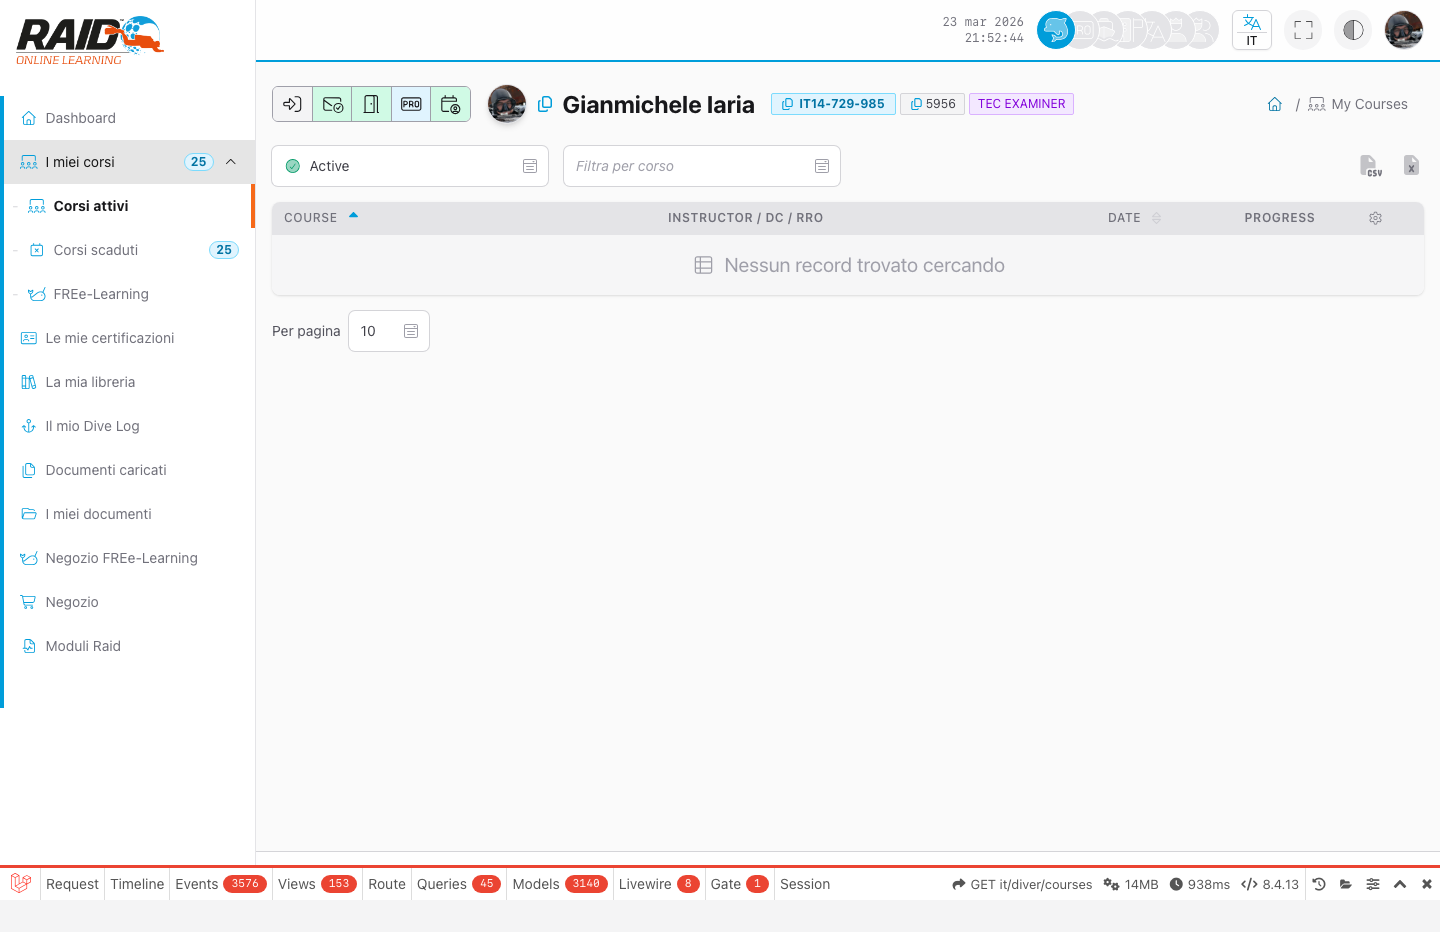
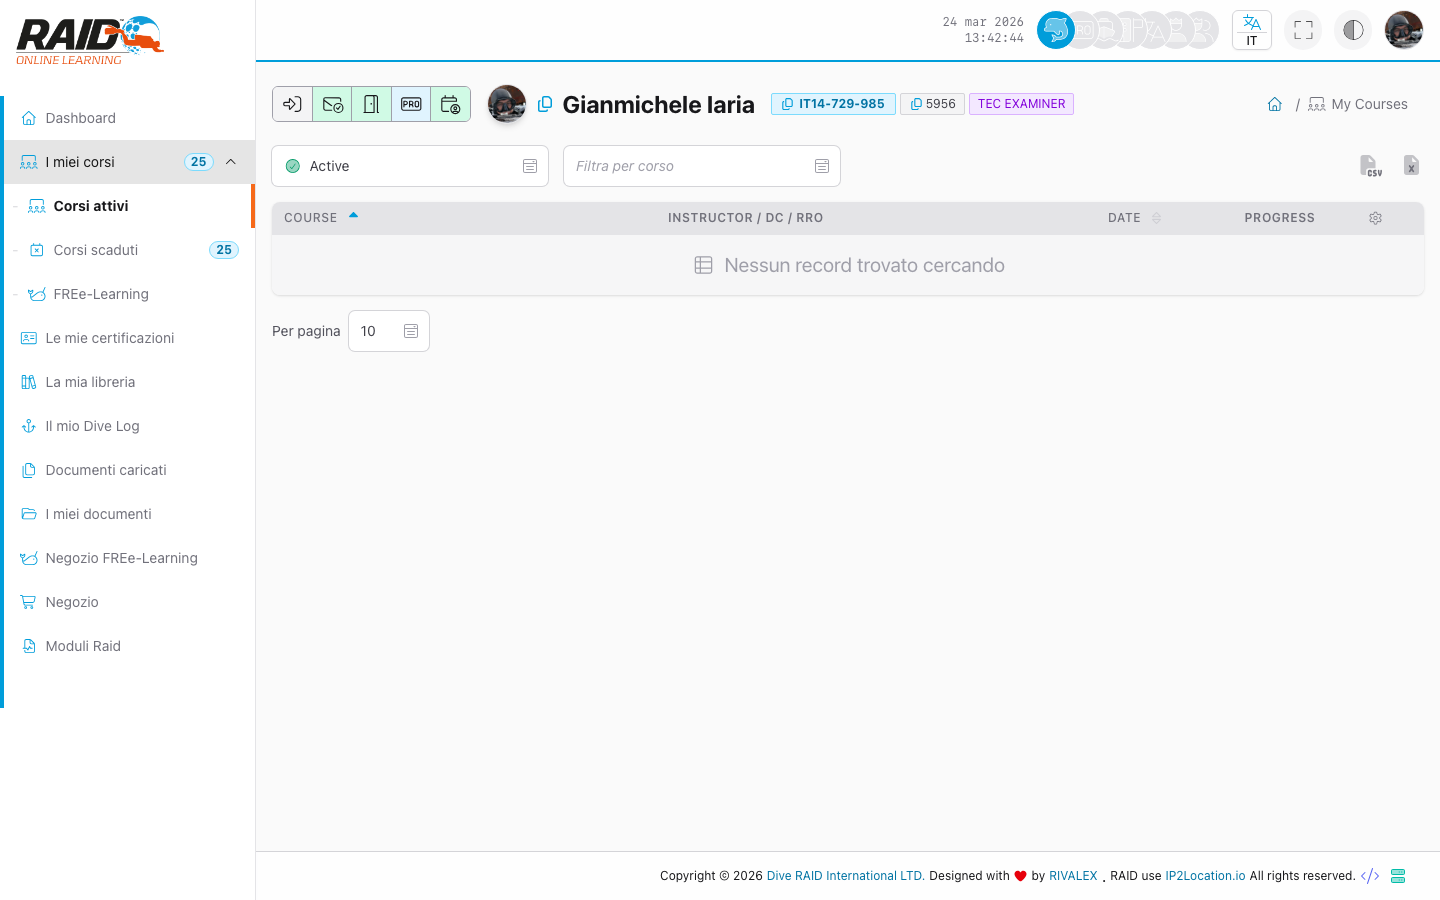
Docs: refresh diver screenshots (no debugbar) + add profile shots

diff --git a/docs/it/diver/dashboard.md b/docs/it/diver/dashboard.md
@@ -6,6 +6,8 @@
 
 ![Libreria](../../assets/screenshots/diver/it/library.png)
 
+![Menu profilo (clic sulla foto)](../../assets/screenshots/diver/it/profile-menu.png)
+
 ## Scopo
 
 La dashboard e' la pagina di ingresso dell'area Diver e aggrega i collegamenti principali (corsi, certificazioni, documenti, ecc.).
@@ -20,6 +22,29 @@ Menu: **Diver -> Dashboard**
 2. Entra in **Corsi** per continuare un percorso.
 3. Entra in **Certificazioni** per consultare card e storico.
 4. Entra in **Dive log** per creare o aggiornare i tuoi log.
+
+## Barra superiore (icone accanto a data/ora)
+
+In alto a destra, accanto a data e ora, trovi alcune scorciatoie:
+
+- **Icone profilo (Diver / PRO / Dive Center / Distributor):** servono per passare da un'area all'altra.
+  Compaiono solo se il tuo utente ha la qualifica/ruolo corrispondente (es. se sei solo Diver vedrai solo l'icona Diver).
+- **Cosa succede se clicchi:** vieni portato alla dashboard dell'area selezionata.
+- **Lingua (IT/EN):** cambia la lingua dell'interfaccia.
+- **Schermo intero:** passa a modalita' full screen (utile su tablet o in presentazione).
+- **Tema/contrasto:** cambia aspetto dell'interfaccia (es. chiaro/scuro, a seconda della configurazione).
+- **Foto profilo (account):** apre il menu del tuo account.
+
+### Se clicco sulla mia foto
+
+Si apre il menu account (come nello screenshot), con queste voci:
+
+- **Il mio profilo:** dati del tuo profilo.
+- **Le mie attivita':** riepilogo delle tue attivita' nel portale.
+- **La mia storia medica:** sezione relativa ai dati/moduli medici (se abilitata per il tuo account).
+- **La mia sicurezza:** impostazioni/consensi relativi alla sicurezza (se previsti).
+- **La mia privacy:** impostazioni privacy.
+- **Disconnetti:** esce dal portale (logout).
 
 ## Problemi comuni
 

diff --git a/docs/en/diver/dashboard.md b/docs/en/diver/dashboard.md
@@ -6,6 +6,8 @@
 
 ![Library](../../assets/screenshots/diver/en/library.png)
 
+![Profile menu (click on photo)](../../assets/screenshots/diver/en/profile-menu.png)
+
 ## Purpose
 
 The dashboard is the entry page for the Diver area and typically aggregates the main links (courses, certifications, documents, etc.).
@@ -20,6 +22,29 @@ Menu: **Diver -> Dashboard**
 2. Go to **Courses** to continue a learning path.
 3. Go to **Certifications** to review cards and history.
 4. Go to **Dive logs** to create or update your logs.
+
+## Top bar (icons next to date/time)
+
+In the top-right corner, next to date and time, you will find a few shortcuts:
+
+- **Profile icons (Diver / PRO / Dive Center / Distributor):** they let you switch between areas.
+  Icons are shown only if your account has the related qualification/role (for example, if you are only a Diver you will only see the Diver icon).
+- **What happens when you click:** you are taken to the dashboard of the selected area.
+- **Language (IT/EN):** switches the UI language.
+- **Full screen:** toggles full screen mode (useful on tablets or during presentations).
+- **Theme/contrast:** changes the UI appearance (for example light/dark, depending on configuration).
+- **Profile photo (account):** opens your account menu.
+
+### What happens if I click my photo?
+
+It opens the account menu (as shown in the screenshot), with these items:
+
+- **My Profile:** your profile details.
+- **My Activities:** a summary of your portal activity.
+- **My Medical History:** medical-related information/forms (if enabled for your account).
+- **My Security:** security-related settings/consents (if available).
+- **My Privacy:** privacy settings.
+- **Sign out:** logs you out of the portal.
 
 ## Common issues
 
